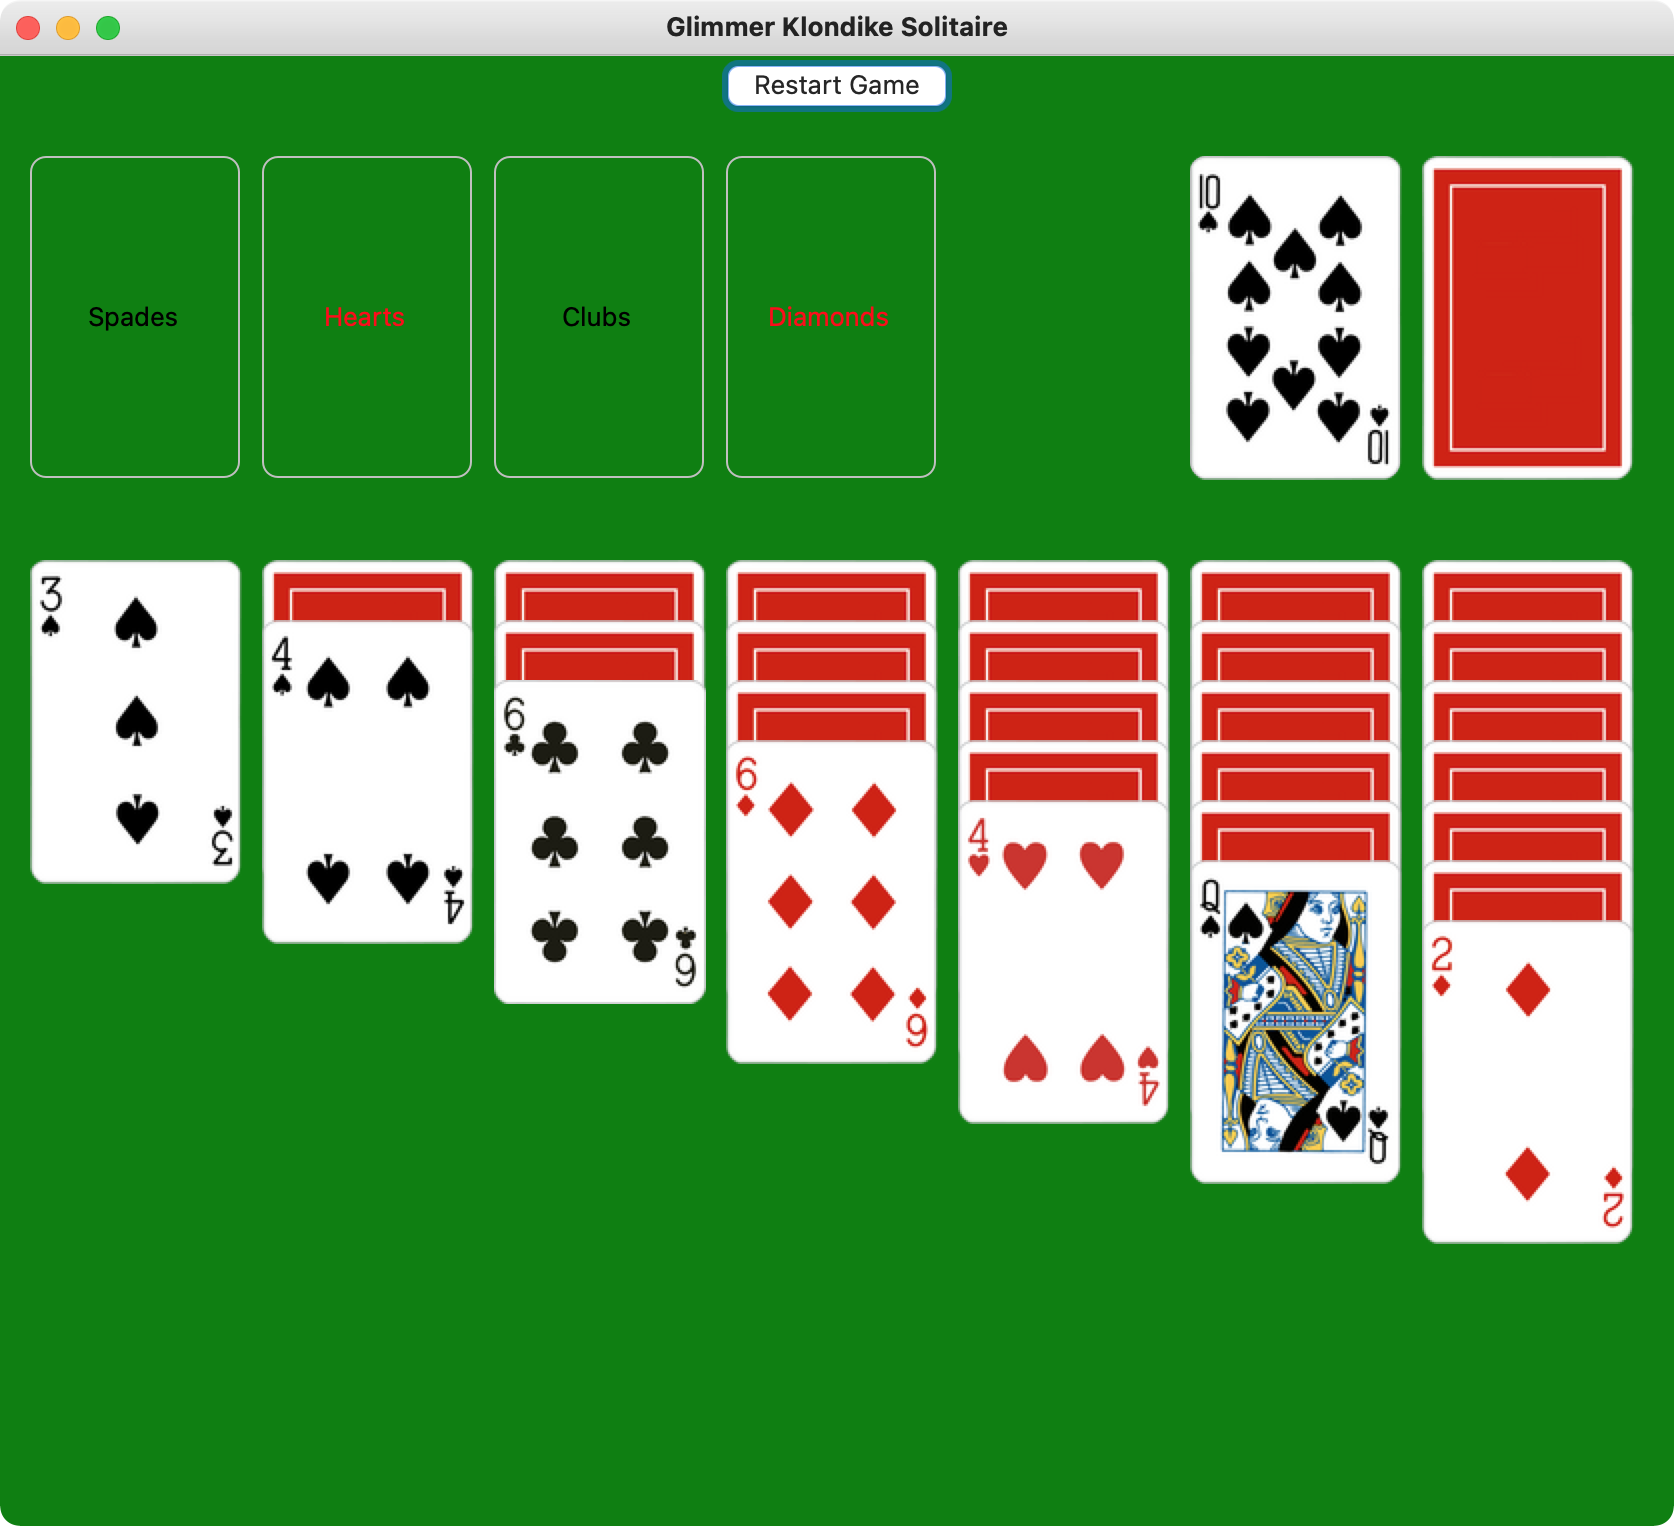
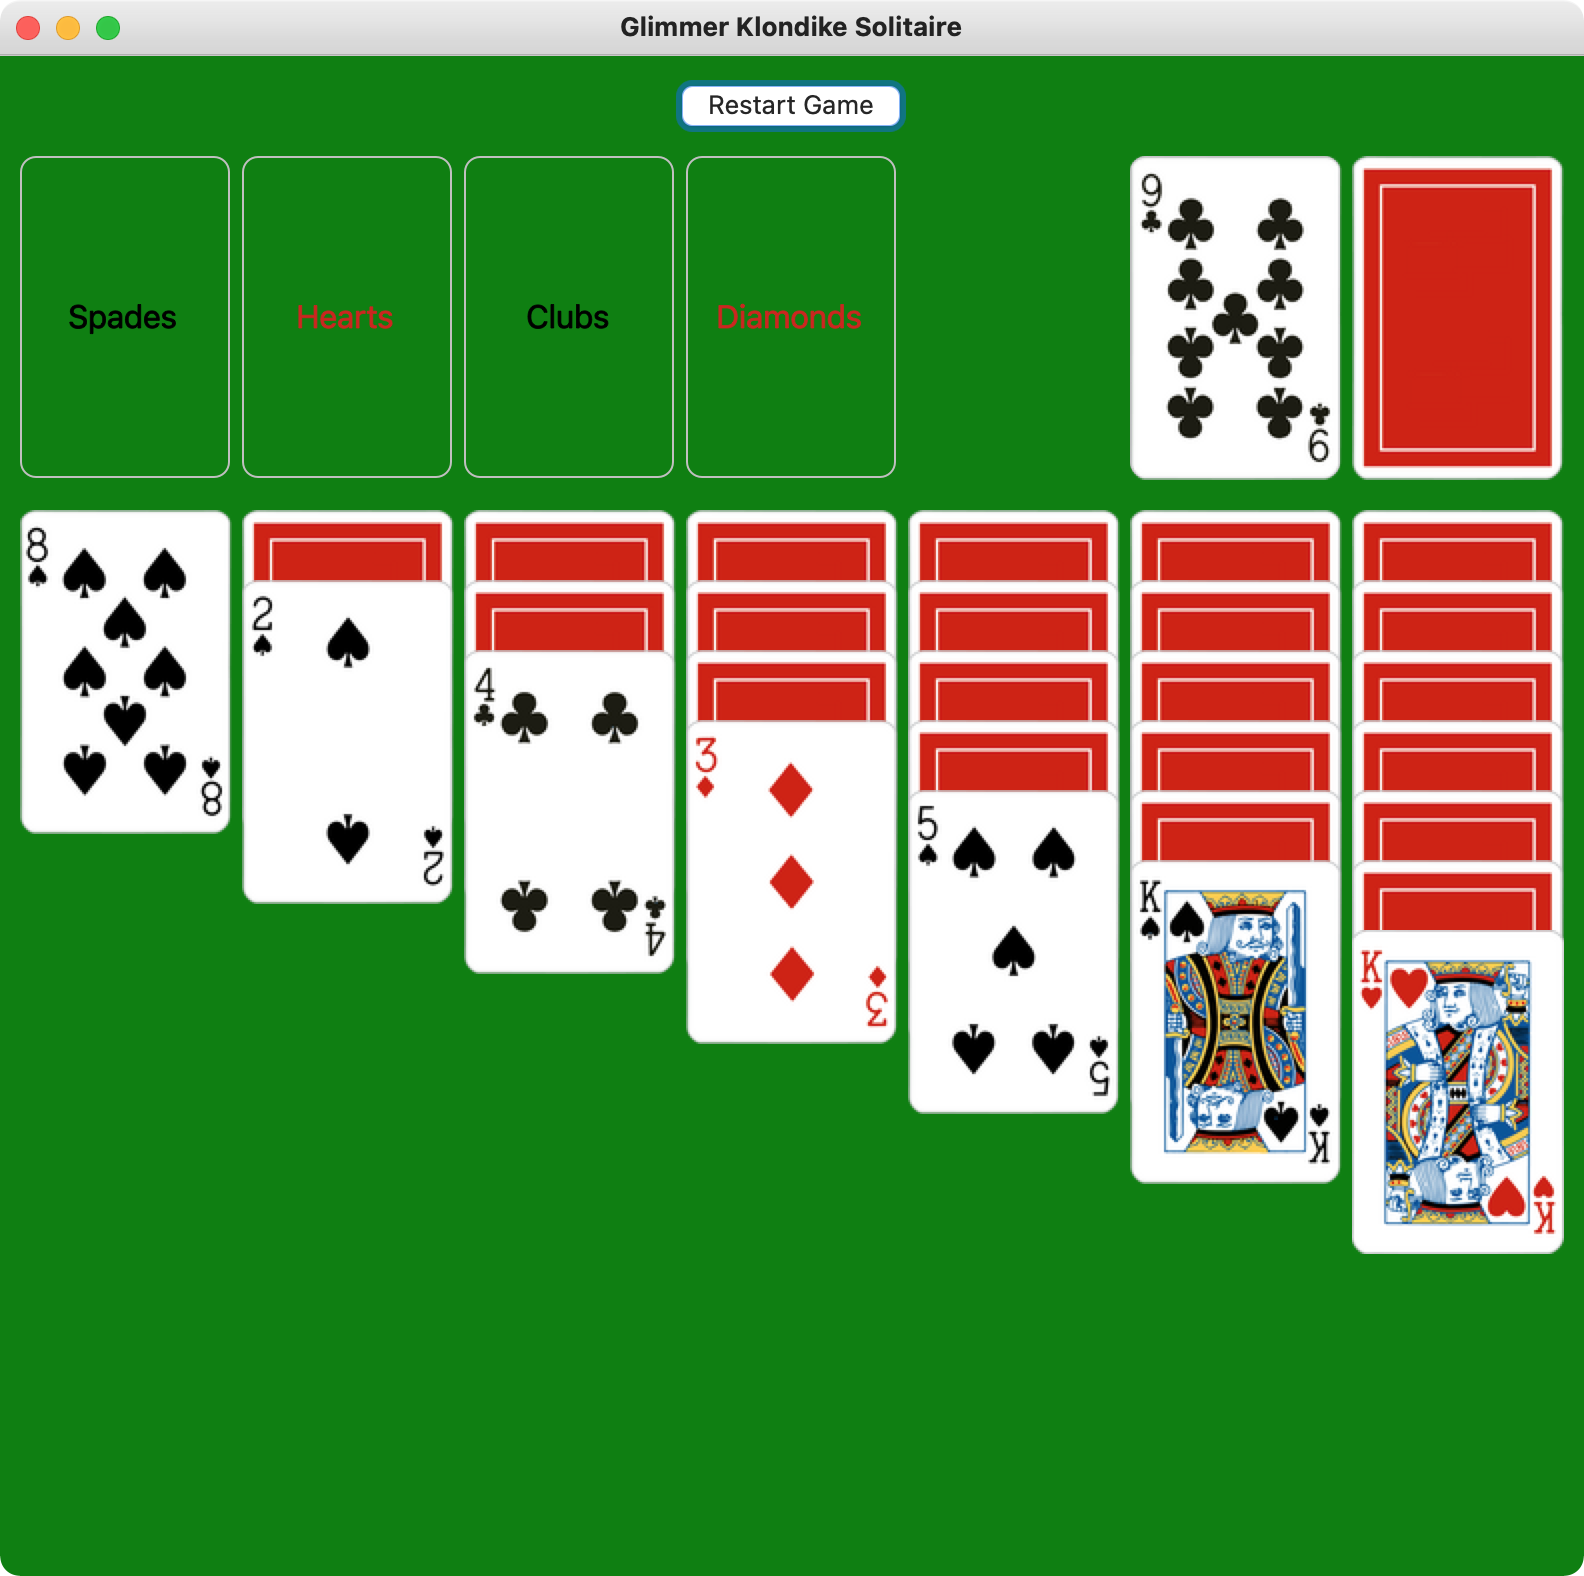
Adjusted dimensions

Changed region(s): [[0.0, 0.0, 0.9899, 0.8316], [0.1856, 0.1848, 0.2475, 0.2156], [0.0309, 0.0, 0.0619, 0.0308]]

diff --git a/app/glimmer_klondike_solitaire/view/tableau.rb b/app/glimmer_klondike_solitaire/view/tableau.rb
@@ -18,14 +18,14 @@ class GlimmerKlondikeSolitaire
           
           # row 1
           @foundation_piles = Model::PlayingCard::SUITS.each_with_index.map do |suit, i|
-            foundation_pile(pile_x: PLAYING_CARD_MARGIN + i*(PLAYING_CARD_WIDTH + PLAYING_CARD_SPACING), pile_y: PLAYING_CARD_MARGIN, game: game, suit: suit)
+            foundation_pile(pile_x: PLAYING_CARD_MARGIN + i*(PLAYING_CARD_WIDTH + PLAYING_CARD_SPACING), pile_y: 0, game: game, suit: suit)
           end
-          @dealt_pile = dealt_pile(pile_x: PLAYING_CARD_MARGIN + 5*(PLAYING_CARD_WIDTH + PLAYING_CARD_SPACING), pile_y: PLAYING_CARD_MARGIN, model: game.dealt_pile)
-          @dealing_pile = dealing_pile(pile_x: PLAYING_CARD_MARGIN + 6*(PLAYING_CARD_WIDTH + PLAYING_CARD_SPACING), pile_y: PLAYING_CARD_MARGIN, model: game.dealing_pile)
+          @dealt_pile = dealt_pile(pile_x: PLAYING_CARD_MARGIN + 5*(PLAYING_CARD_WIDTH + PLAYING_CARD_SPACING), pile_y: 0, model: game.dealt_pile)
+          @dealing_pile = dealing_pile(pile_x: PLAYING_CARD_MARGIN + 6*(PLAYING_CARD_WIDTH + PLAYING_CARD_SPACING), pile_y: 0, model: game.dealing_pile)
           
           # row 2
           @column_piles = 7.times.map do |n|
-            column_pile(pile_x: PLAYING_CARD_MARGIN + n*(PLAYING_CARD_WIDTH + PLAYING_CARD_SPACING), pile_y: PLAYING_CARD_MARGIN + PLAYING_CARD_HEIGHT + PLAYING_CARD_SPACING, model: game.column_piles[n])
+            column_pile(pile_x: PLAYING_CARD_MARGIN + n*(PLAYING_CARD_WIDTH + PLAYING_CARD_SPACING), pile_y: PLAYING_CARD_HEIGHT - 4*PLAYING_CARD_SPACING, model: game.column_piles[n])
           end
           
           on_mouse_up do |event|

diff --git a/app/glimmer_klondike_solitaire/view/app_view.rb b/app/glimmer_klondike_solitaire/view/app_view.rb
@@ -21,14 +21,14 @@ class GlimmerKlondikeSolitaire
       }
   
       body {
-        shell(:no_resize) {
+        shell {
           row_layout(:vertical) {
             fill true
             center true
             margin_width 0
             margin_height 0
           }
-          minimum_size 2*PLAYING_CARD_MARGIN + 7*(PLAYING_CARD_WIDTH + PLAYING_CARD_SPACING) - 5, 700
+          minimum_size 2*PLAYING_CARD_MARGIN + 7*(PLAYING_CARD_WIDTH + PLAYING_CARD_SPACING) - PLAYING_CARD_SPACING, 700 + PLAYING_CARD_MARGIN
           image File.join(APP_ROOT, 'package', 'linux', "Glimmer Klondike Solitaire.png")
           text "Glimmer Klondike Solitaire"
           background :dark_green
@@ -36,8 +36,8 @@ class GlimmerKlondikeSolitaire
           action_panel(game: @game)
           tableau(game: @game) {
             layout_data {
-              width 2*PLAYING_CARD_MARGIN + 7*(PLAYING_CARD_WIDTH + PLAYING_CARD_SPACING) - 5
-              height 700
+              width 2*PLAYING_CARD_MARGIN + 7*(PLAYING_CARD_WIDTH + PLAYING_CARD_SPACING) - PLAYING_CARD_SPACING
+              height 700 + PLAYING_CARD_MARGIN
             }
           }
           

diff --git a/app/glimmer_klondike_solitaire/view/empty_playing_card.rb b/app/glimmer_klondike_solitaire/view/empty_playing_card.rb
@@ -3,10 +3,15 @@ class GlimmerKlondikeSolitaire
     class EmptyPlayingCard
       include Glimmer::UI::CustomShape
       
-      option :suit
+      options :card_x, :card_y, :suit
   
+      before_body {
+        self.card_x ||= 0
+        self.card_y ||= 0
+      }
+      
       body {
-        rectangle(0, 0, PLAYING_CARD_WIDTH - 2, PLAYING_CARD_HEIGHT - 2, 15, 15) {
+        rectangle(card_x, card_y, PLAYING_CARD_WIDTH - 2, PLAYING_CARD_HEIGHT - 2, 15, 15) {
           foreground :gray
           
           if suit
@@ -15,7 +20,8 @@ class GlimmerKlondikeSolitaire
               x :default
               y :default
               is_transparent true
-              foreground [:spades, :clubs].include?(suit) ? :black : :red
+              foreground [:spades, :clubs].include?(suit) ? :black : rgb(206, 35, 21)
+              font height: 16, style: :bold
             }
           end
         }

diff --git a/app/glimmer_klondike_solitaire.rb b/app/glimmer_klondike_solitaire.rb
@@ -17,10 +17,11 @@ class GlimmerKlondikeSolitaire
   APP_ROOT = File.expand_path('../..', __FILE__)
   VERSION = File.read(File.join(APP_ROOT, 'VERSION'))
   LICENSE = File.read(File.join(APP_ROOT, 'LICENSE.txt'))
-  PLAYING_CARD_MARGIN = 15
+  PLAYING_CARD_MARGIN = 10
   PLAYING_CARD_WIDTH = 106
   PLAYING_CARD_HEIGHT = 162
-  PLAYING_CARD_SPACING = 10
+  PLAYING_CARD_SPACING = 5
+  PLAYING_CARD_COLUMN_SPACING = 35
   
   IMAGES = Model::PlayingCard::SUITS.reduce({}) do |hash, suit|
     hash.merge(suit => 1.upto(13).reduce({}) do |suit_hash, rank|

diff --git a/app/glimmer_klondike_solitaire/view/column_pile.rb b/app/glimmer_klondike_solitaire/view/column_pile.rb
@@ -45,7 +45,7 @@ class GlimmerKlondikeSolitaire
         current_parent = body_root
         playing_cards.each_with_index do |card, i|
           current_parent.content {
-            current_parent = playing_card(card_x: 0, card_y: 30, model: card, parent_pile: self) {
+            current_parent = playing_card(card_x: 0, card_y: PLAYING_CARD_COLUMN_SPACING, model: card, parent_pile: self) {
               drag_source true unless card.hidden?
             }.body_root
           }

diff --git a/app/glimmer_klondike_solitaire/view/playing_card.rb b/app/glimmer_klondike_solitaire/view/playing_card.rb
@@ -8,13 +8,11 @@ class GlimmerKlondikeSolitaire
       before_body {
         self.card_x ||= 0
         self.card_y ||= 0
-        
-        @image = IMAGES[model.suit][model.rank]
       }
   
       body {
         image {
-          image model.hidden ? IMAGE_BACK : @image
+          image model.hidden ? IMAGE_BACK : IMAGES[model.suit][model.rank]
           x card_x
           y card_y
         }

diff --git a/app/glimmer_klondike_solitaire/view/hidden_playing_card.rb b/app/glimmer_klondike_solitaire/view/hidden_playing_card.rb
@@ -3,11 +3,18 @@ class GlimmerKlondikeSolitaire
     class HiddenPlayingCard
       include Glimmer::UI::CustomShape
   
+      options :card_x, :card_y
+  
+      before_body {
+        self.card_x ||= 0
+        self.card_y ||= 0
+      }
+      
       body {
         image {
           image IMAGE_BACK
-          x 0
-          y 0
+          x card_x
+          y card_y
         }
       }
   

diff --git a/app/glimmer_klondike_solitaire/view/action_panel.rb b/app/glimmer_klondike_solitaire/view/action_panel.rb
@@ -10,8 +10,10 @@ class GlimmerKlondikeSolitaire
       body {
         composite {
           grid_layout(1, false) {
-            margin_width 0
+            margin_width 10
             margin_height 0
+            margin_top 10
+            margin_bottom 5
           }
           
           background :dark_green
